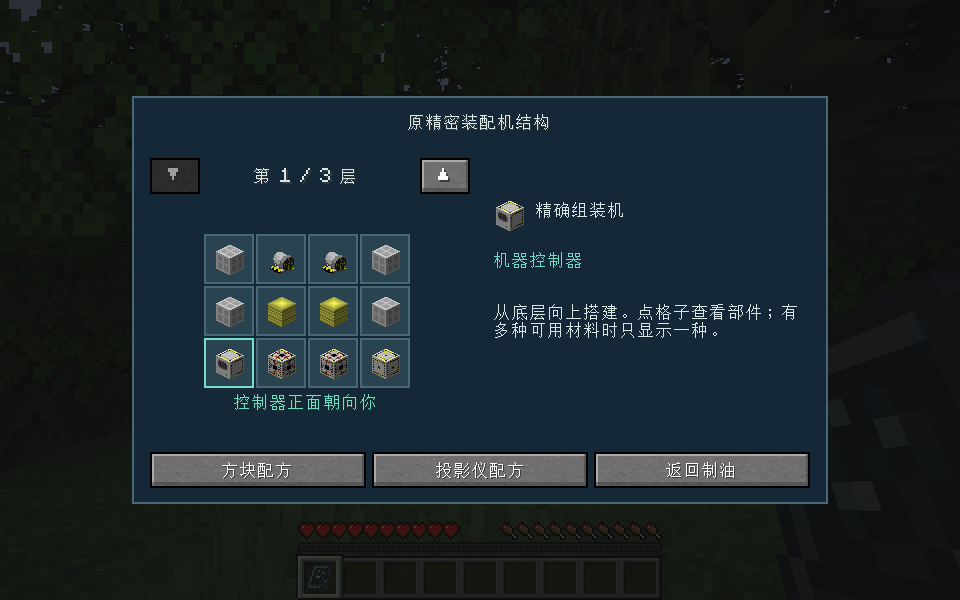
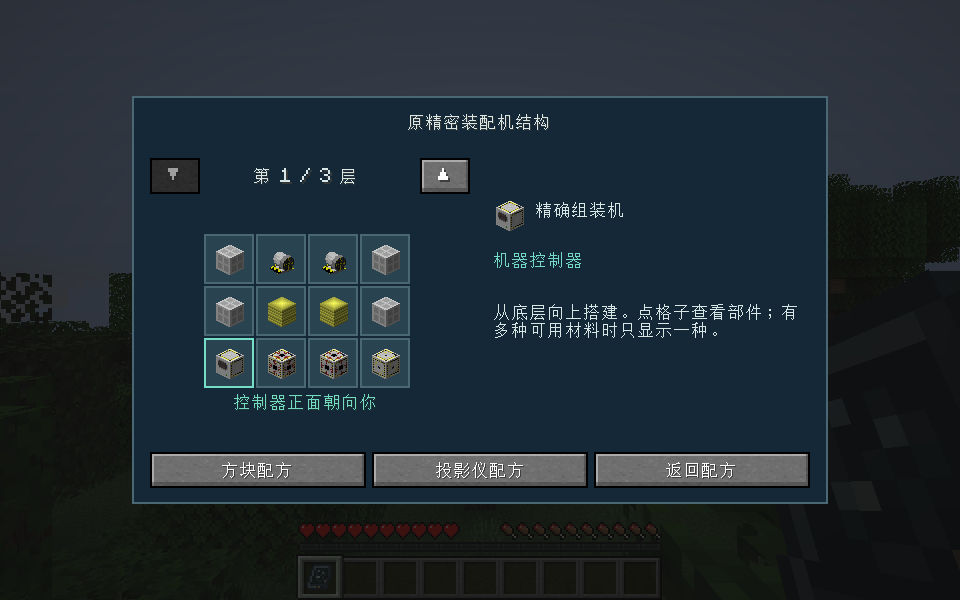
Record the hosted original ore-to-machine walkthrough

Changed region(s): [[0.0, 0.0, 1.0, 0.57], [0.7188, 0.75, 0.7812, 0.81], [0.9688, 0.42, 1.0, 0.45]]

diff --git a/.serena/memories/start-here.md b/.serena/memories/start-here.md
@@ -6,7 +6,7 @@
 
 **从这里恢复。** 仓库 `Wayne1145/starbridge`，开发分支 `codex/original-spaceflight`，草稿 PR #2，受保护的 `main` 要求 `build` 通过。先核对本地分支、最近提交、未提交文件及远端实际作业。使用 `./scripts/serena.ps1 project index .` 和 `./scripts/serena.ps1 memories read start-here .`。每条新的发行结论都要能回到原始截图、操作日志、服务端断言或关服存档。测试预置、全自动渲染客户端和真人首次游玩要明确标出。
 
-「材料与配方」已用中文客户端 `45064227784` 核对跟踪芯片、钛板和两次返回导航电脑。原专服读到 900 刻、50 RF/刻及 300 刻、20 RF/刻。云端 `45065118434` 已点开原精密装配机和轧机的摆法并回到配方。已将两处旧的「返回制油」改为「返回配方」。原专服读到电弧炉五层 105 个结构格，钢锭和钛锭均可查看原工艺，继续核对从钛板切换到电弧炉的中文界面。[配方和机器证据](../../docs/original-machine-recipes-verification.json)
+「材料与配方」已用中文客户端 `45064227784` 核对跟踪芯片、钛板和两次返回导航电脑。原专服读到 900 刻、50 RF/刻及 300 刻、20 RF/刻。云端 `45065118434` 已点开原精密装配机和轧机的摆法并回到配方。已将两处旧的「返回制油」改为「返回配方」。`45065889946` 已从钛板逐步点到钛锭原机器配方和五层电弧炉，并回到导航电脑。六张中文截图归档，原专服读到 105 个结构格和两种合金工艺。[配方和机器证据](../../docs/original-machine-recipes-verification.json)
 
 | 场景 | 已知事实与接手入口 |
 | --- | --- |

diff --git a/docs/test-report.md b/docs/test-report.md
@@ -320,3 +320,5 @@ GitHub 的 Ubuntu 专服在 `db84994` 的完整发行包上持续观测十个无
 2026-11-23，云端 `45064227784` 用关闭作弊的中文生存客户端从航图终端点开跟踪芯片和钛板。精密装配机批次为 900 刻、50 RF/刻，轧机批次为 300 刻、20 RF/刻。两张中文截图、返回按钮记录和加载包摘要均已核对。最早一轮漏装高级火箭和 LibVulpes，停在安装页，后续用例加入了两项依赖。专服另读到精密装配机三层、轧机两层，包括要留空的原格。[配方与原结构观测](original-machine-recipes-verification.json)
 
 云端 `45065118434` 从配方页实际点击打开三层精密装配机和两层轧机，回到原配方及导航电脑。截图发现返回按钮仍写「返回制油」，材料入口已改为「返回配方」。零玩家专服另读到 5×5×5 的原电弧炉、105 个结构格、铁锭与木炭加工钢以及从金红石矿加工钛的配方。[截图和原始数据](original-machine-recipes-verification.json)
+
+中文云端 `45065889946` 已完成跟踪芯片、钛板和钛锭三条材料跳转，打开精密装配机、轧机与五层电弧炉后逐级回到导航电脑。实际点击「原机器配方」从普通钛锭页切到金红石矿加工，三个结构页均显示「返回配方」。复核了六张观测截图、发行主包和退出存档记录。[完整图形路径](original-machine-recipes-verification.json)
